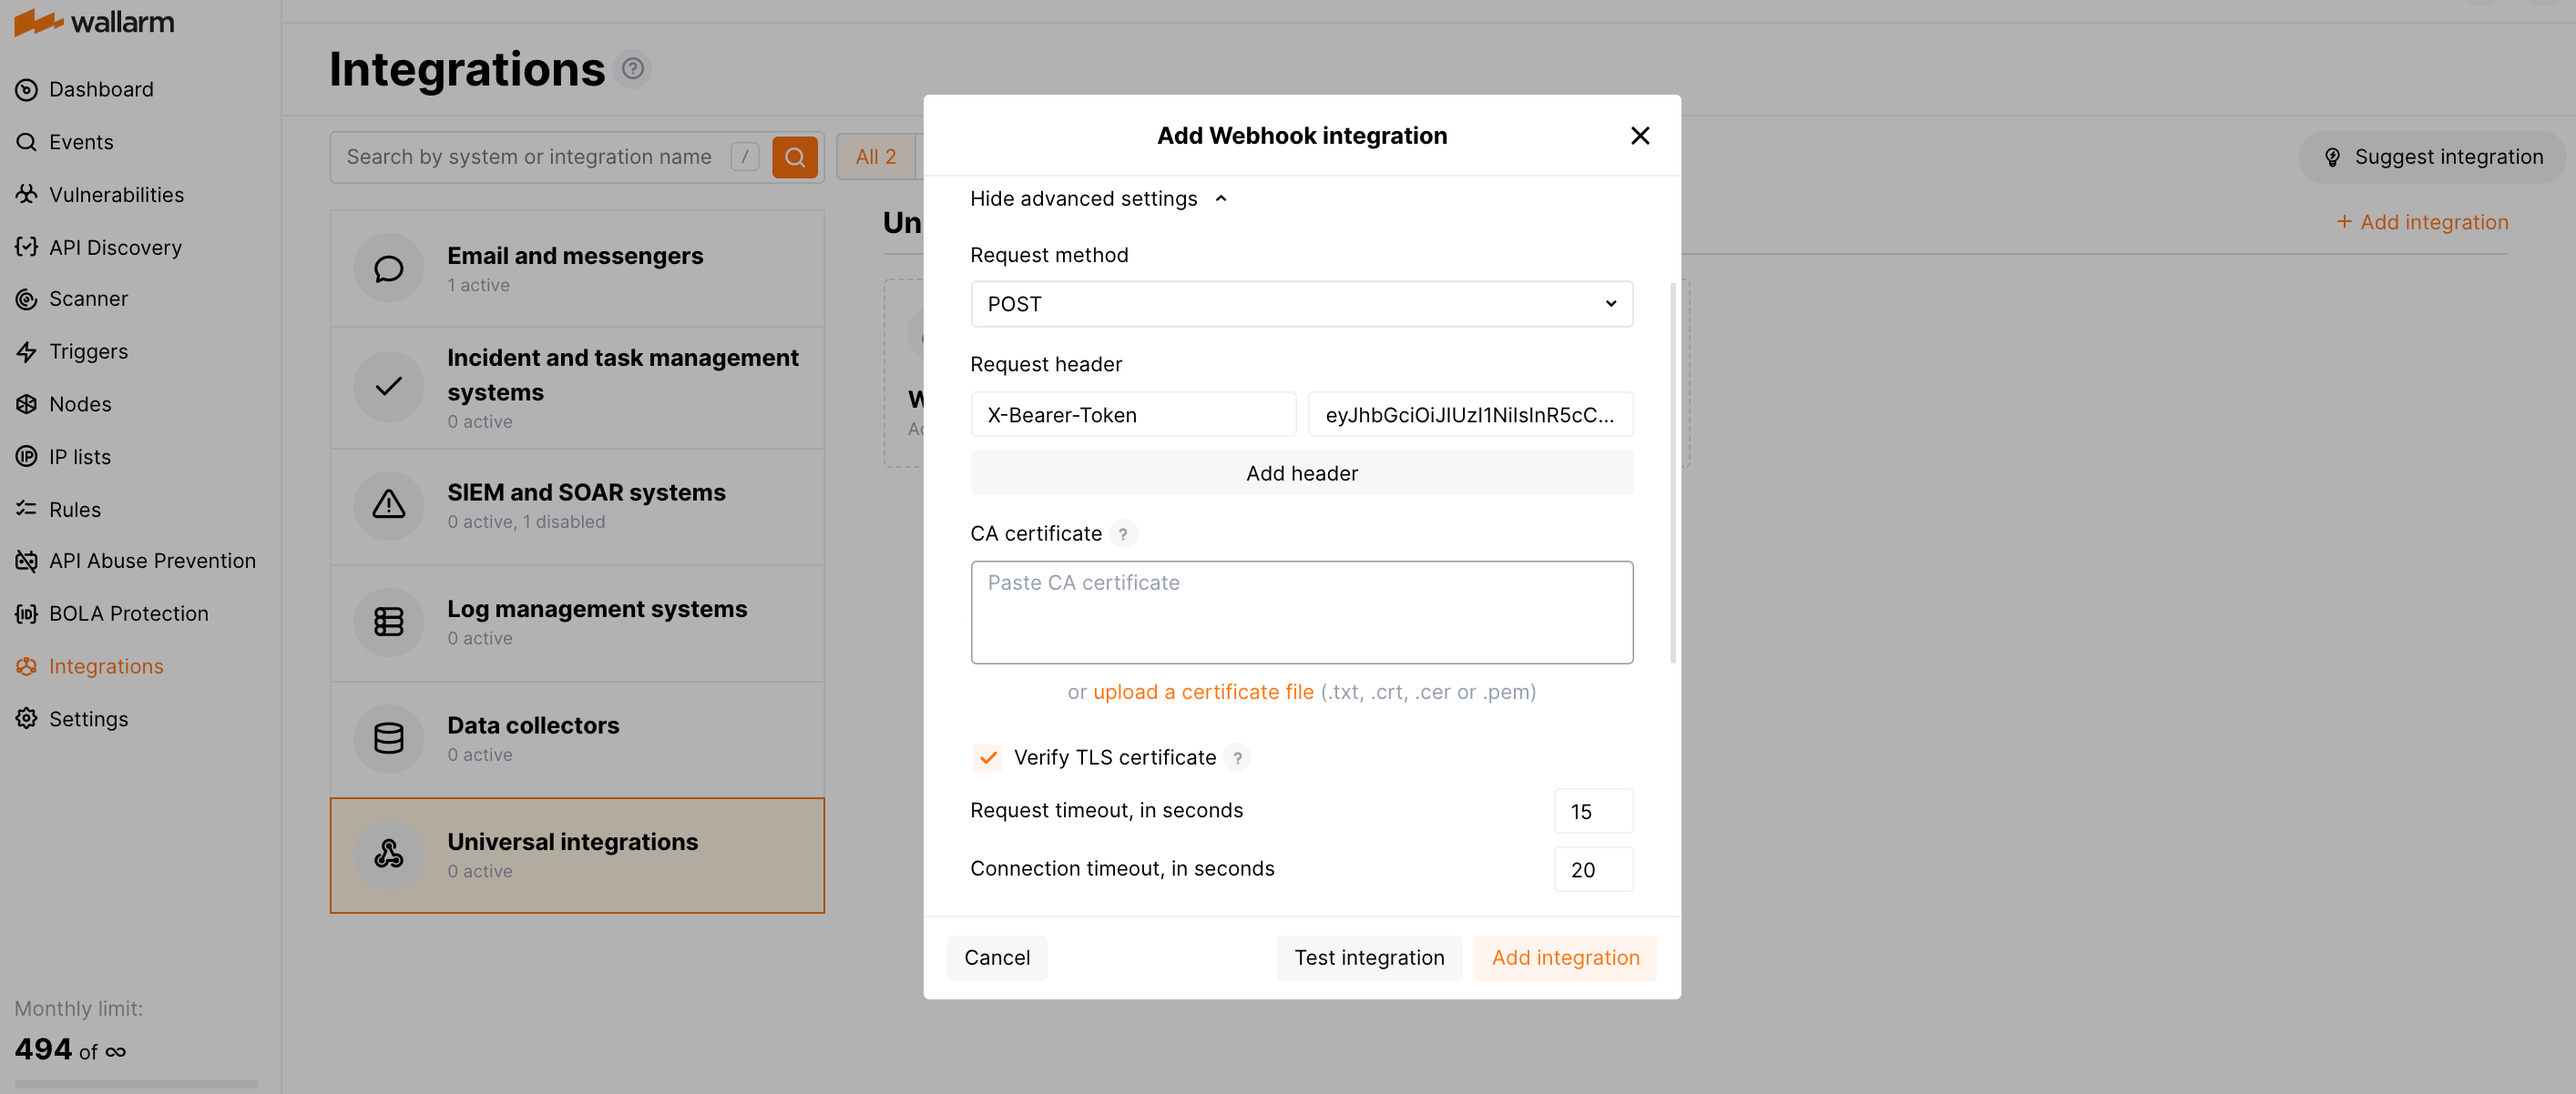
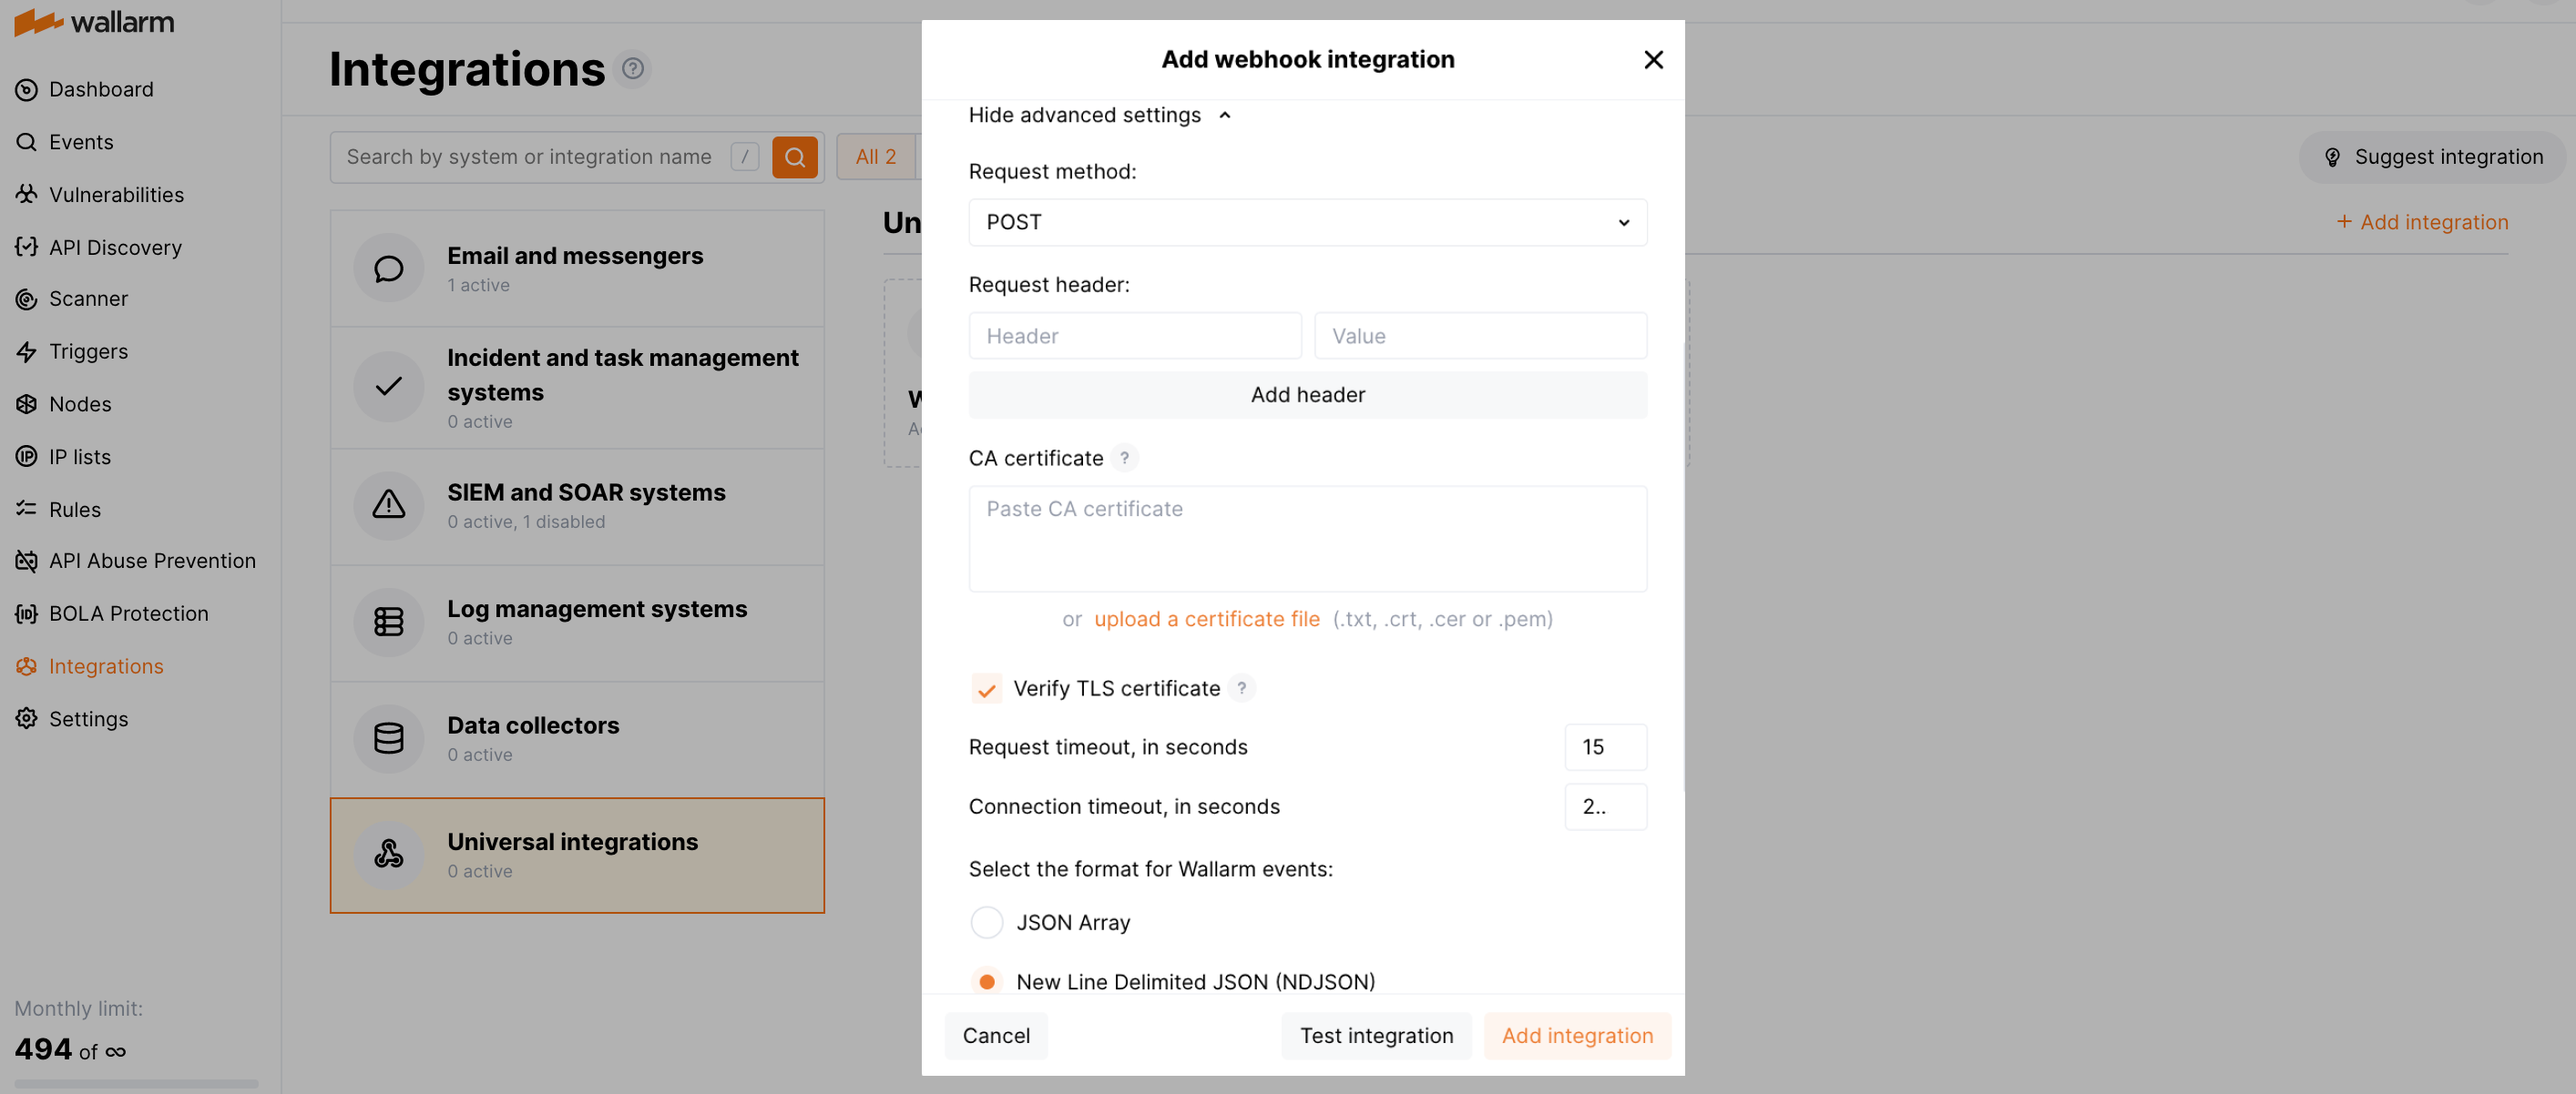
mention that webhook integration allows to send events in the NDJSON format

diff --git a/docs/latest/user-guides/settings/integrations/webhook.md b/docs/latest/user-guides/settings/integrations/webhook.md
@@ -4,106 +4,188 @@ You can set up Wallarm to send instant notifications to any system that accepts 
 
 ## Notification format
 
-Notifications are sent in JSON format. The set of JSON objects depends on the event for which the notification is sent. For example:
+Notifications are sent in either JSON Array or New Line Delimited JSON (NDJSON) format depending on your choice during integration setup. The set of JSON objects depends on the event for which the notification is sent. For example:
 
 * Hit detected
 
-    ```json
-    [
+    === "JSON Array"
+        ```json
+        [
         {
             "summary": "[Wallarm] New hit detected",
             "details": {
-            "client_name": "TestCompany",
-            "cloud": "EU",
-            "notification_type": "new_hits",
-            "hit": {
-                "domain": "www.example.com",
-                "heur_distance": 0.01111,
-                "method": "POST",
-                "parameter": "SOME_value",
-                "path": "/news/some_path",
+              "client_name": "Test Company",
+              "cloud": "EU",
+              "notification_type": "new_hits",
+              "hit": {
+                "domain": "example.com",
+                "heur_distance": 20.714285714285715,
+                "method": "GET",
+                "path": "/",
                 "payloads": [
-                    "say ni"
+                  "1' select version();"
                 ],
                 "point": [
-                    "post"
+                  "get",
+                  "id"
                 ],
-                "probability": 0.01,
-                "remote_country": "PL",
-                "remote_port": 0,
+                "probability": 20.714285714285715,
+                "remote_country": null,
+                "remote_port": 41253,
                 "remote_addr4": "8.8.8.8",
-                "remote_addr6": "",
+                "remote_addr6": null,
+                "datacenter": "unknown",
                 "tor": "none",
-                "request_time": 1603834606,
-                "create_time": 1603834608,
-                "response_len": 14,
-                "response_status": 200,
-                "response_time": 5,
+                "request_time": 1703519823,
+                "create_time": 1703519826,
+                "response_len": 345,
+                "response_status": 404,
+                "response_time": 359,
                 "stamps": [
-                    1111
+                  7965
                 ],
                 "regex": [],
-                "stamps_hash": -22222,
-                "regex_hash": -33333,
+                "stamps_hash": 271168947,
+                "regex_hash": -2147483648,
                 "type": "sqli",
                 "block_status": "monitored",
+                "brute_counter": "b:1111:xxxxxxxxxxxxxxxx",
+                "final_wallarm_mode": "monitoring",
+                "libproton_version": "4.8.0",
+                "lom_id": 932,
+                "protocol": "rest",
+                "proxy_type": null,
+                "request_id": "xxxxxxxxxxxxxxxx",
+                "wallarm_mode": null,
                 "id": [
-                    "hits_production_999_202010_v_1",
-                    "c2dd33831a13be0d_AC9"
+                  "hits_production_1111_202312_v_1",
+                  "xxxxxxxxxxxxxxxx"
                 ],
                 "object_type": "hit",
-                "anomaly": 0
-                }
-            }
+                "anomaly": 1.0357142857142858,
+                "parameter": "GET_id_value",
+                "applications": [
+                  "default"
+                ]
+              }
+           }
+        },
+        {
+            "summary": "[Wallarm] New hit detected",
+            "details": {
+              "client_name": "Test Company",
+              "cloud": "EU",
+              "notification_type": "new_hits",
+              "hit": {
+                "domain": "example.com",
+                "heur_distance": 2.5,
+                "method": "GET",
+                "path": "/etc/passwd",
+                "payloads": [
+                  "/etc/passwd"
+                ],
+                "point": [
+                  "uri"
+                ],
+                "probability": 2.5,
+                "remote_country": null,
+                "remote_port": 41254,
+                "remote_addr4": "8.8.8.8",
+                "remote_addr6": null,
+                "datacenter": "unknown",
+                "tor": "none",
+                "request_time": 1703519826,
+                "create_time": 1703519829,
+                "response_len": 345,
+                "response_status": 404,
+                "response_time": 339,
+                "stamps": [
+                  2907
+                ],
+                "regex": [],
+                "stamps_hash": -1063984326,
+                "regex_hash": -2147483648,
+                "type": "ptrav",
+                "block_status": "monitored",
+                "brute_counter": "b:1111:xxxxxxxxxxxxxxxx",
+                "final_wallarm_mode": "monitoring",
+                "libproton_version": "4.8.0",
+                "lom_id": 932,
+                "protocol": "none",
+                "proxy_type": null,
+                "request_id": "xxxxxxxxxxxxxxxx",
+                "wallarm_mode": null,
+                "id": [
+                  "hits_production_1111_202312_v_1",
+                  "xxxxxxxxxxxxxxxx"
+                ],
+                "object_type": "hit",
+                "anomaly": 0.22727272727272727,
+                "parameter": "URI_value",
+                "applications": [
+                  "default"
+                ]
+              }
+           }
         }
-    ]
-    ```
+        ]
+        ```
+    === "New Line Delimited JSON (NDJSON)"
+        ```json
+        {"summary":"[Wallarm] New hit detected","details":{"client_name":"Test Company","cloud":"EU","notification_type":"new_hits","hit":{"domain":"example.com","heur_distance":20.714285714285715,"method":"GET","path":"/","payloads":["1' select version();"],"point":["get","id"],"probability":20.714285714285715,"remote_country":null,"remote_port":41253,"remote_addr4":"8.8.8.8","remote_addr6":null,"datacenter":"unknown","tor":"none","request_time":1703519823,"create_time":1703519826,"response_len":345,"response_status":404,"response_time":359,"stamps":[7965],"regex":[],"stamps_hash":271168947,"regex_hash":-2147483648,"type":"sqli","block_status":"monitored","brute_counter":"b:1111:xxxxxxxxxxxxxxxx","final_wallarm_mode":"monitoring","libproton_version":"4.8.0","lom_id":932,"protocol":"rest","proxy_type":null,"request_id":"xxxxxxxxxxxxxxxx","wallarm_mode":null,"id":["hits_production_1111_202312_v_1","xxxxxxxxxxxxxxxx"],"object_type":"hit","anomaly":1.0357142857142858,"parameter":"GET_id_value","applications":["default"]}}
+        {"summary":"[Wallarm] New hit detected","details":{"client_name":"Test Company","cloud":"EU","notification_type":"new_hits","hit":{"domain":"example.com","heur_distance":2.5,"method":"GET","path":"/etc/passwd","payloads":["/etc/passwd"],"point":["uri"],"probability":2.5,"remote_country":null,"remote_port":41254,"remote_addr4":"8.8.8.8","remote_addr6":null,"datacenter":"unknown","tor":"none","request_time":1703519826,"create_time":1703519829,"response_len":345,"response_status":404,"response_time":339,"stamps":[2907],"regex":[],"stamps_hash":-1063984326,"regex_hash":-2147483648,"type":"ptrav","block_status":"monitored","brute_counter":"b:1111:xxxxxxxxxxxxxxxx","final_wallarm_mode":"monitoring","libproton_version":"4.8.0","lom_id":932,"protocol":"none","proxy_type":null,"request_id":"xxxxxxxxxxxxxxxx","wallarm_mode":null,"id":["hits_production_1111_202312_v_1","xxxxxxxxxxxxxxxx"],"object_type":"hit","anomaly":0.22727272727272727,"parameter":"URI_value","applications":["default"]}}
+        ```
 * Vulnerability detected
 
-    ```json
-    [
-        {
-            summary:"[Wallarm] New vulnerability detected",
-            description:"Notification type: vuln
+    === "JSON Array"
+        ```json
+        [
+            {
+                summary:"[Wallarm] New vulnerability detected",
+                description:"Notification type: vuln
 
-                        New vulnerability was detected in your system.
+                            New vulnerability was detected in your system.
 
-                        ID: 
-                        Title: Test
-                        Domain: example.com
-                        Path: 
-                        Method: 
-                        Discovered by: 
-                        Parameter: 
-                        Type: Info
-                        Threat: Medium
+                            ID: 
+                            Title: Test
+                            Domain: example.com
+                            Path: 
+                            Method: 
+                            Discovered by: 
+                            Parameter: 
+                            Type: Info
+                            Threat: Medium
 
-                        More details: https://us1.my.wallarm.com/object/555
+                            More details: https://us1.my.wallarm.com/object/555
 
 
-                        Client: TestCompany
-                        Cloud: US
-                        ",
-            details:{
-                client_name:"TestCompany",
-                cloud:"US",
-                notification_type:"vuln",
-                vuln_link:"https://us1.my.wallarm.com/object/555",
-                vuln:{
-                    domain:"example.com",
-                    id:null,
-                    method:null,
-                    parameter:null,
-                    path:null,
-                    title:"Test",
-                    discovered_by:null,
-                    threat:"Medium",
-                    type:"Info"
+                            Client: TestCompany
+                            Cloud: US
+                            ",
+                details:{
+                    client_name:"TestCompany",
+                    cloud:"US",
+                    notification_type:"vuln",
+                    vuln_link:"https://us1.my.wallarm.com/object/555",
+                    vuln:{
+                        domain:"example.com",
+                        id:null,
+                        method:null,
+                        parameter:null,
+                        path:null,
+                        title:"Test",
+                        discovered_by:null,
+                        threat:"Medium",
+                        type:"Info"
+                    }
                 }
             }
-        }
-    ]
-    ```
+        ]
+        ```
+    === "New Line Delimited JSON (NDJSON)"
+        ```json
+        {"summary":"[Wallarm] New vulnerability detected","description":"Notification type: vuln\nNew vulnerability was detected in your system.\nID: \nTitle: Test\nDomain: example.com\nPath: \nMethod: \nDiscovered by: \nParameter: \nType: Info\nThreat: Medium\nMore details: https://us1.my.wallarm.com/object/555\nClient: TestCompany\nCloud: US","details":{"client_name":"TestCompany","cloud":"US","notification_type":"vuln","vuln_link":"https://us1.my.wallarm.com/object/555","vuln":{"domain":"example.com","id":null,"method":null,"parameter":null,"path":null,"title":"Test","discovered_by":null,"threat":"Medium","type":"Info"}}}
+        ```
 
 ## Setting up integration
 
@@ -124,7 +206,7 @@ Notifications are sent in JSON format. The set of JSON objects depends on the ev
 
     --8<-- "../include/integrations/advanced-events-for-integrations.md"
 
-1. Click **Test integration** to check configuration correctness, availability of the Wallarm Cloud, and the notification format.
+1. Click **Test integration** to check configuration correctness, availability of the Wallarm Cloud, and the notification format. Test notifications are always sent in the JSON Array format, even if New Line Delimited JSON (NDJSON) is chosen.
 1. Click **Add integration**.
 
 ## Setting up additional alerts

diff --git a/include/integrations/webhook-advanced-settings.md b/include/integrations/webhook-advanced-settings.md
@@ -4,3 +4,4 @@
 * **Verify TLS certificate**: this setting allows to disable verification of the specified server certificate. By default, Wallarm verifies whether a server certificate is signed by a publicly trusted CA. We do not recommend disabling the verification of production server certificates. If your server uses a self-signed TLS certificate, you can add a self-signed CA certificate to allow sending requests to this server.
 * **Request timeout, in seconds**: if the server does not respond to the request within the specified time, the request fails. By default: 15 seconds.
 * **Connection timeout, in seconds**: if the connection to the server cannot be established during the specified time, the request fails. By default: 20 seconds.
+* Wallarm data format: either a JSON Array (default) or a New Line Delimited JSON (NDJSON).
